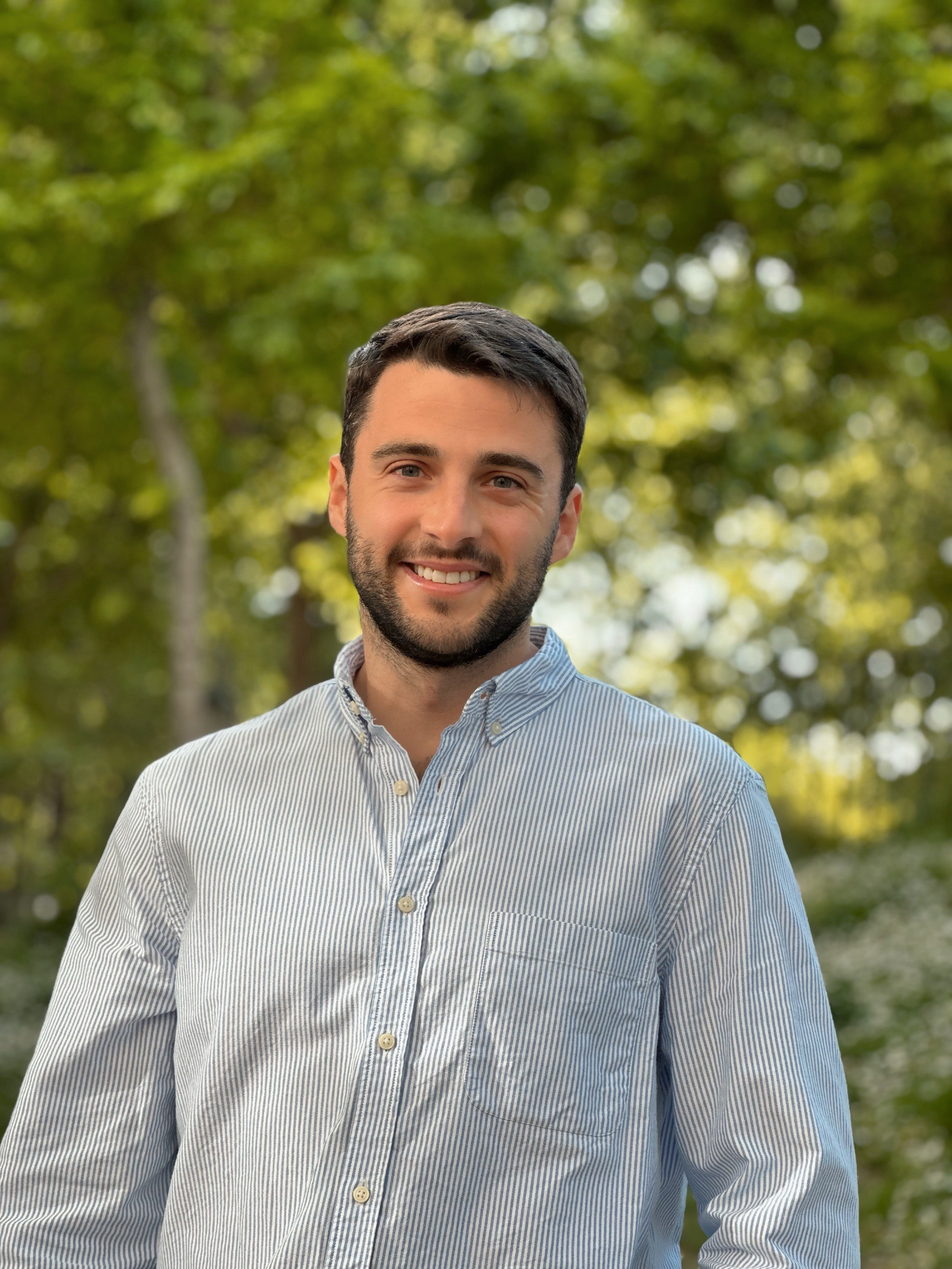
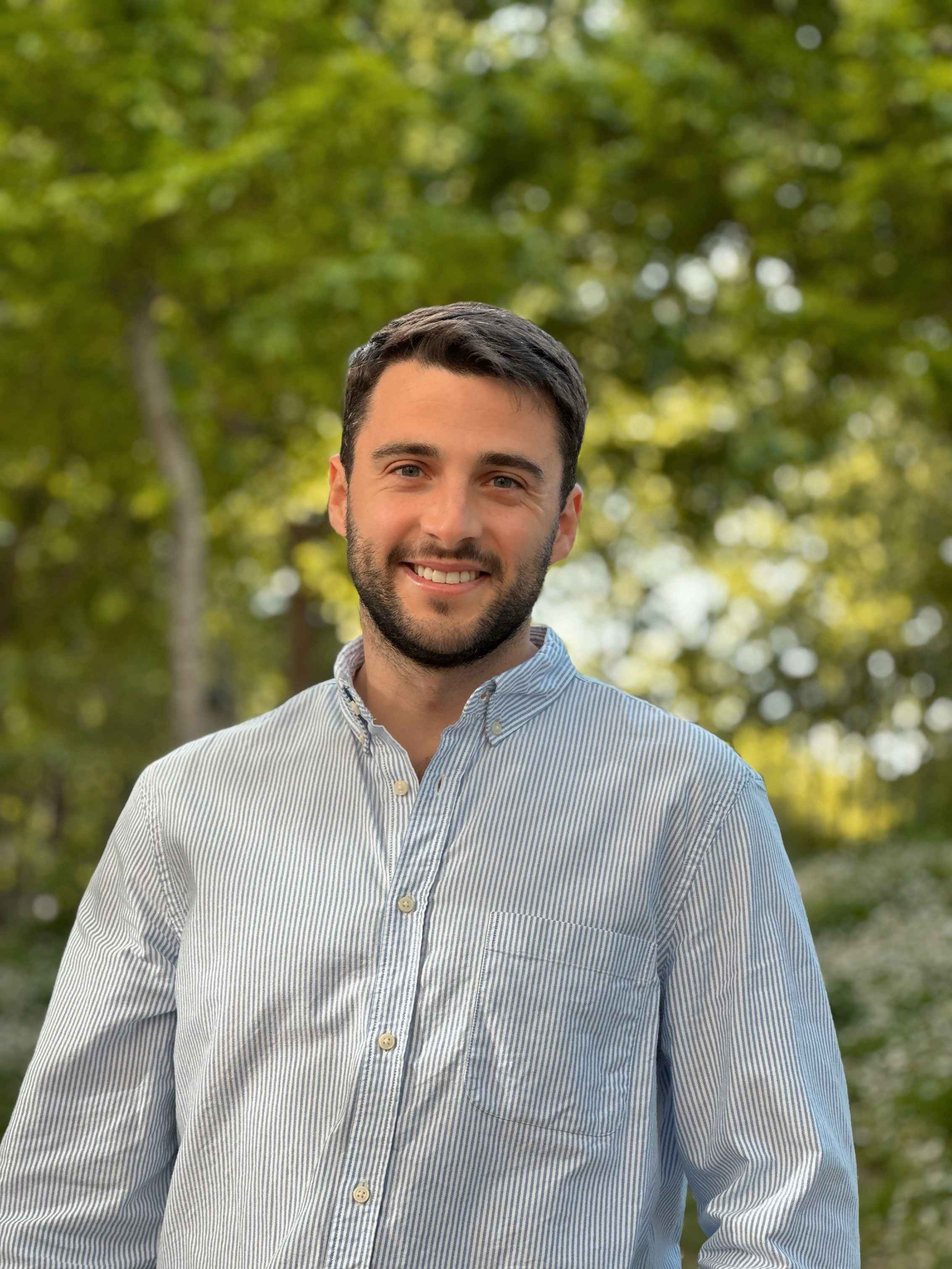
improve image sizeing

diff --git a/find_your_clone.py b/find_your_clone.py
@@ -2,7 +2,7 @@ import cv2
 import face_recognition as fr
 import os
 import numpy as np
-import shutil
+from PIL import Image
 
 # crear base de datos
 main_path = '/Users/andresmuracciole/Desktop/Proyectos/find_your_clone/photos'
@@ -10,6 +10,7 @@ secondary_path = '/Users/andresmuracciole/Desktop/Proyectos/find_your_clone/you_
 photo = "/Users/andresmuracciole/Desktop/Proyectos/find_your_clone/you_photo/photo.jpg"
 people_names = []
 your_photo_list=[]
+quality_num=40
 
 # Encode images
 def encode(images):
@@ -38,14 +39,13 @@ def encode_complete_list(path):
     
     # Encode photos in data base
     my_images = encode(my_images)
-    
+    """
     os.chdir("/Users/andresmuracciole/Desktop/Proyectos/find_your_clone")
-    
     file_encode_list=open("encode_list.py", "a")
     file_encode_list.write(str(my_images))
     file_people_name_list=open("name_list.py", "a")
     file_people_name_list.write(str(people_names))
-    
+    """
     return(my_images, people_names)
 
 #Check if photo already exist
@@ -67,7 +67,9 @@ def saveImage(image):
     if not os.path.exists(main_path):
         os.makedirs(main_path)
     copy_path = os.path.join(main_path, personName + ".jpg")
-    shutil.copy(image, copy_path)
+    #shutil.copy(image, copy_path)
+    img = Image.open(image)
+    img.save(copy_path, optimize=True, quality=quality_num)
 
 #Delete DS_Store files
 def delete_files(path, file_name):
@@ -81,43 +83,23 @@ def delete_files(path, file_name):
             except Exception as e:
                 print(f"No {file}: {e}")
 
-
+def resize_photo():
+    img = Image.open(photo)
+    img.save(photo, optimize=True, quality=quality_num)
+    
 ############################
 ############################
-
 delete_files(main_path, ".DS_Store")
 delete_files(secondary_path, ".DS_Store")
 
-
 people_encode_list, people_names = encode_complete_list(main_path)
-print((people_encode_list))
-print((people_names))
-print(type(people_encode_list))
-print(type(people_names))
-
-
-open_file = open("encode_list.py")
-people_encode_list=open_file.read()
-open_file.close()
-#print(people_encode_list)
-
-open_file2 = open("name_list.py")
-people_names=open_file2.read()
-open_file2.close()
-#print(people_names)
-
-print((people_encode_list))
-print((people_names))
-print(type(people_encode_list))
-print(type(people_names))
-
-#FALTA CONVERTIR STR A LIST PARA QUE TERMINE DE FUNCIONAR
-
 
 #Check if photo is already in the list
+resize_photo()
 photo_read = cv2.imread(photo)
 your_photo_list.append(photo_read)
 encoded_photo=encode(your_photo_list)
+
 
 #Check if photo already exist
 existing=checkExistingPhoto(people_encode_list, encoded_photo)
@@ -143,7 +125,7 @@ for x in encoded_photo:
         # Show image
         photo_clon_path=main_path+"/"+name+".jpg"
         photo_clon = cv2.imread(photo_clon_path)
-        cv2.imshow("Tu clon:", photo_clon)
+        cv2.imshow("Your clon: " + name, photo_clon)
 
         #Avoid closing windows automatically. Waiting until press a key
         cv2.waitKey(0)
